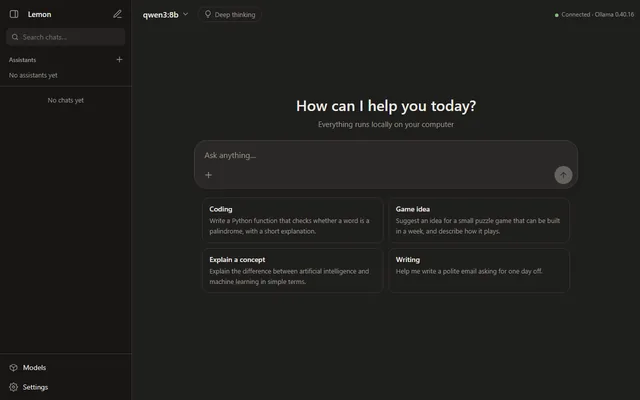
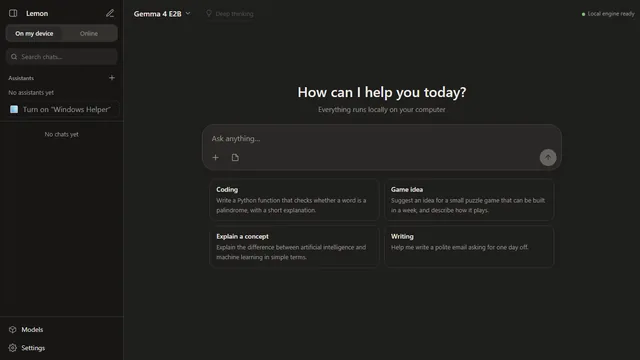
Lemon 3.0: new screenshots from the released build; privacy effective date 2026-11-28

diff --git a/ar/lemon/index.html b/ar/lemon/index.html
@@ -67,7 +67,7 @@
     <figure class="ap-shot">
       <div class="win dark">
         <div class="win-bar"><img src="../../img/lemon.webp" width="16" height="16" alt=""><span class="t">Lemon</span><span class="win-ctl" aria-hidden="true"><i></i><i></i><i></i></span></div>
-        <div class="ap-screen"><img src="../../img/lemon-ar.webp" srcset="../../img/lemon-ar-640.webp 640w, ../../img/lemon-ar.webp 960w" sizes="(max-width: 719px) calc(100vw - 32px), 680px" width="960" height="600" fetchpriority="high" alt="الشاشة الرئيسية لبرنامج Lemon بالعربية: مربع المحادثة واقتراحات جاهزة، والنموذج qwen3:8b"></div>
+        <div class="ap-screen"><img src="../../img/lemon-ar.webp" srcset="../../img/lemon-ar-640.webp 640w, ../../img/lemon-ar.webp 960w" sizes="(max-width: 719px) calc(100vw - 32px), 680px" width="960" height="540" fetchpriority="high" alt="الشاشة الرئيسية لبرنامج Lemon بالعربية: مربع المحادثة واقتراحات جاهزة، والنموذج Gemma 4 E2B مع المحرك المدمج جاهزًا"></div>
       </div>
       <figcaption>Lemon بالعربية.</figcaption>
     </figure>

diff --git a/lemon/index.html b/lemon/index.html
@@ -67,7 +67,7 @@
     <figure class="ap-shot">
       <div class="win dark">
         <div class="win-bar"><img src="../img/lemon.webp" width="16" height="16" alt=""><span class="t">Lemon</span><span class="win-ctl" aria-hidden="true"><i></i><i></i><i></i></span></div>
-        <div class="ap-screen"><img src="../img/lemon-en.webp" srcset="../img/lemon-en-640.webp 640w, ../img/lemon-en.webp 960w" sizes="(max-width: 719px) calc(100vw - 32px), 680px" width="960" height="600" fetchpriority="high" alt="Lemon’s home screen in English: the chat box, suggested prompts, and the qwen3:8b model"></div>
+        <div class="ap-screen"><img src="../img/lemon-en.webp" srcset="../img/lemon-en-640.webp 640w, ../img/lemon-en.webp 960w" sizes="(max-width: 719px) calc(100vw - 32px), 680px" width="960" height="540" fetchpriority="high" alt="Lemon’s home screen in English: the chat box, suggested prompts, the Gemma 4 E2B model and the built-in engine ready"></div>
       </div>
       <figcaption>Lemon in English.</figcaption>
     </figure>

diff --git a/ar/privacy/index.html b/ar/privacy/index.html
@@ -48,7 +48,7 @@
 <p class="kicker">سياسة الخصوصية</p>
 <h1>الخصوصية</h1>
 <p class="lead">برامج FastKiwi بلا حسابات ولا إعلانات ولا إحصاءات ولا تتبّع، وبياناتك تبقى على جهازك. تسرد هذه الصفحة كل اتصال بالشبكة يجريه كل برنامج: ماذا يرسل ومتى.</p>
-<p class="pv-date">تاريخ السريان: <time datetime="2026-11-06">6 نوفمبر 2026</time></p>
+<p class="pv-date">تاريخ السريان: <time datetime="2026-11-28">28 نوفمبر 2026</time></p>
 
 <p>تشمل هذه السياسة برامج ويندوز InstaFind (بحث سريع) وذكرني (Remember Me) وLemon وInstaWords (تفقيط)، ونسخة InstaWords على الويب، وموقع fastkiwi.app، وكلها من FastKiwi. كل برنامج يعمل بلا إنترنت، وتوضّح الأقسام أدناه بالضبط ما الذي يغادر جهازك إن وُجد شيء.</p>
 

diff --git a/privacy/index.html b/privacy/index.html
@@ -48,7 +48,7 @@
 <p class="kicker">Privacy policy</p>
 <h1>Privacy</h1>
 <p class="lead">FastKiwi apps have no accounts, ads, analytics or telemetry. Your data stays on your PC. This page lists every network connection each app makes, what it sends and when.</p>
-<p class="pv-date">Effective date: <time datetime="2026-11-06">November 6, 2026</time></p>
+<p class="pv-date">Effective date: <time datetime="2026-11-28">November 28, 2026</time></p>
 
 <p>This policy covers the Windows apps InstaFind, Remember Me, Lemon and InstaWords, the InstaWords web app and the fastkiwi.app website, all published by FastKiwi. Each app works offline; the sections below say exactly what, if anything, leaves your PC.</p>
 
